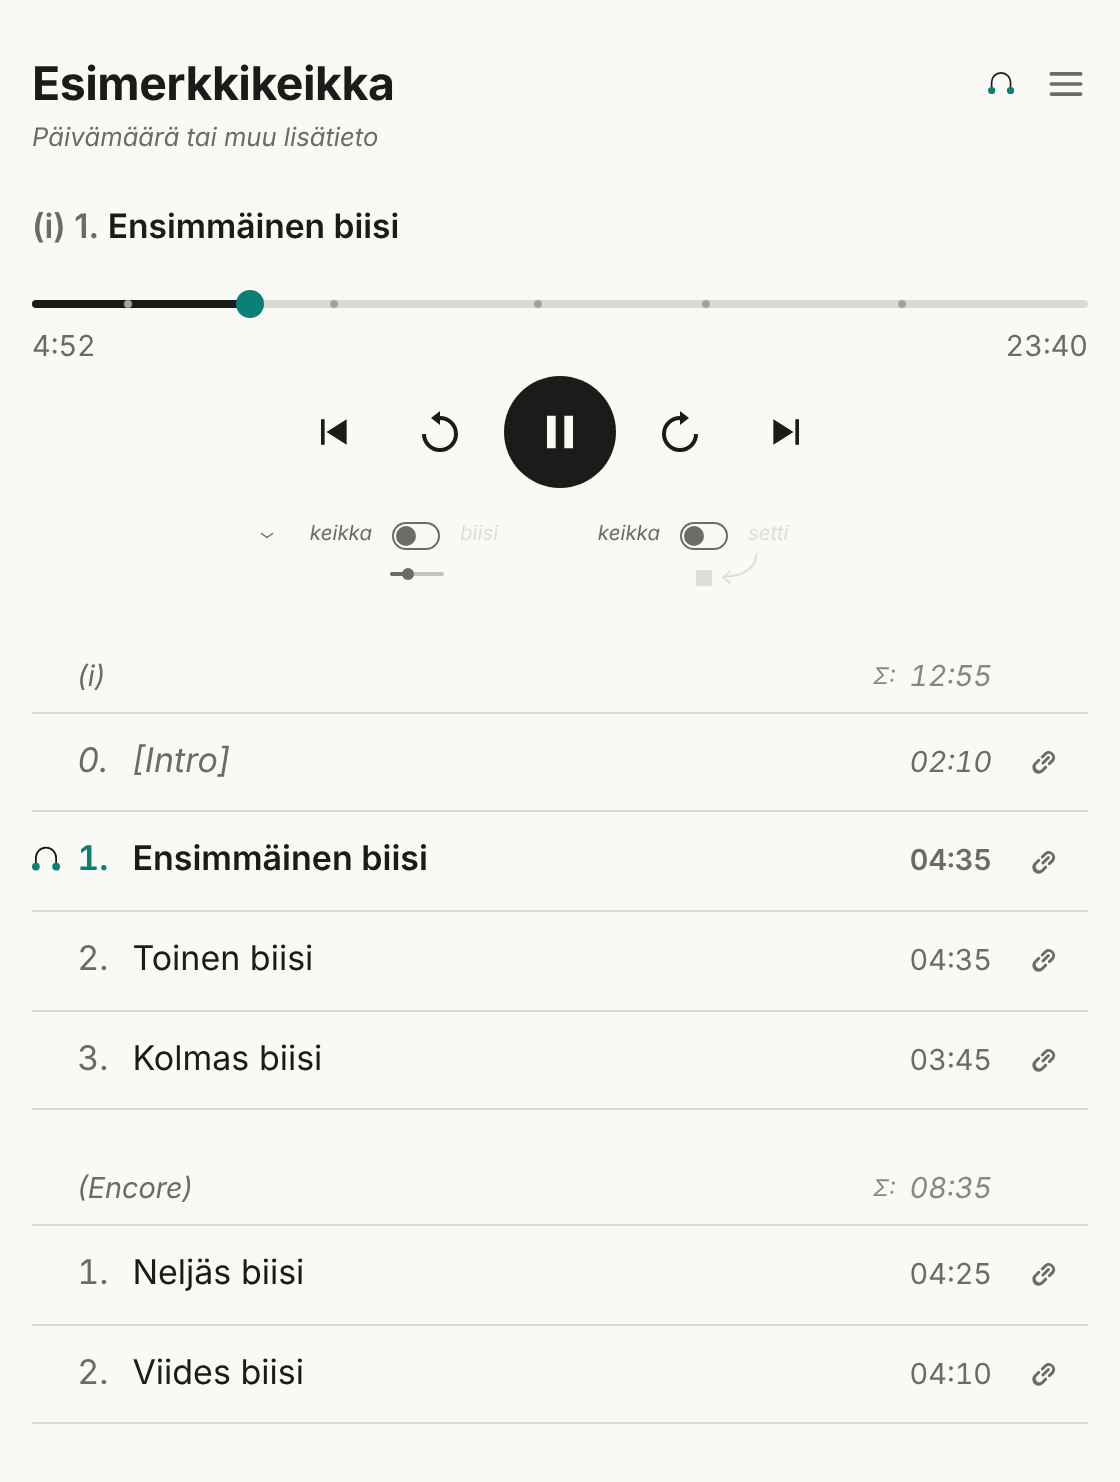
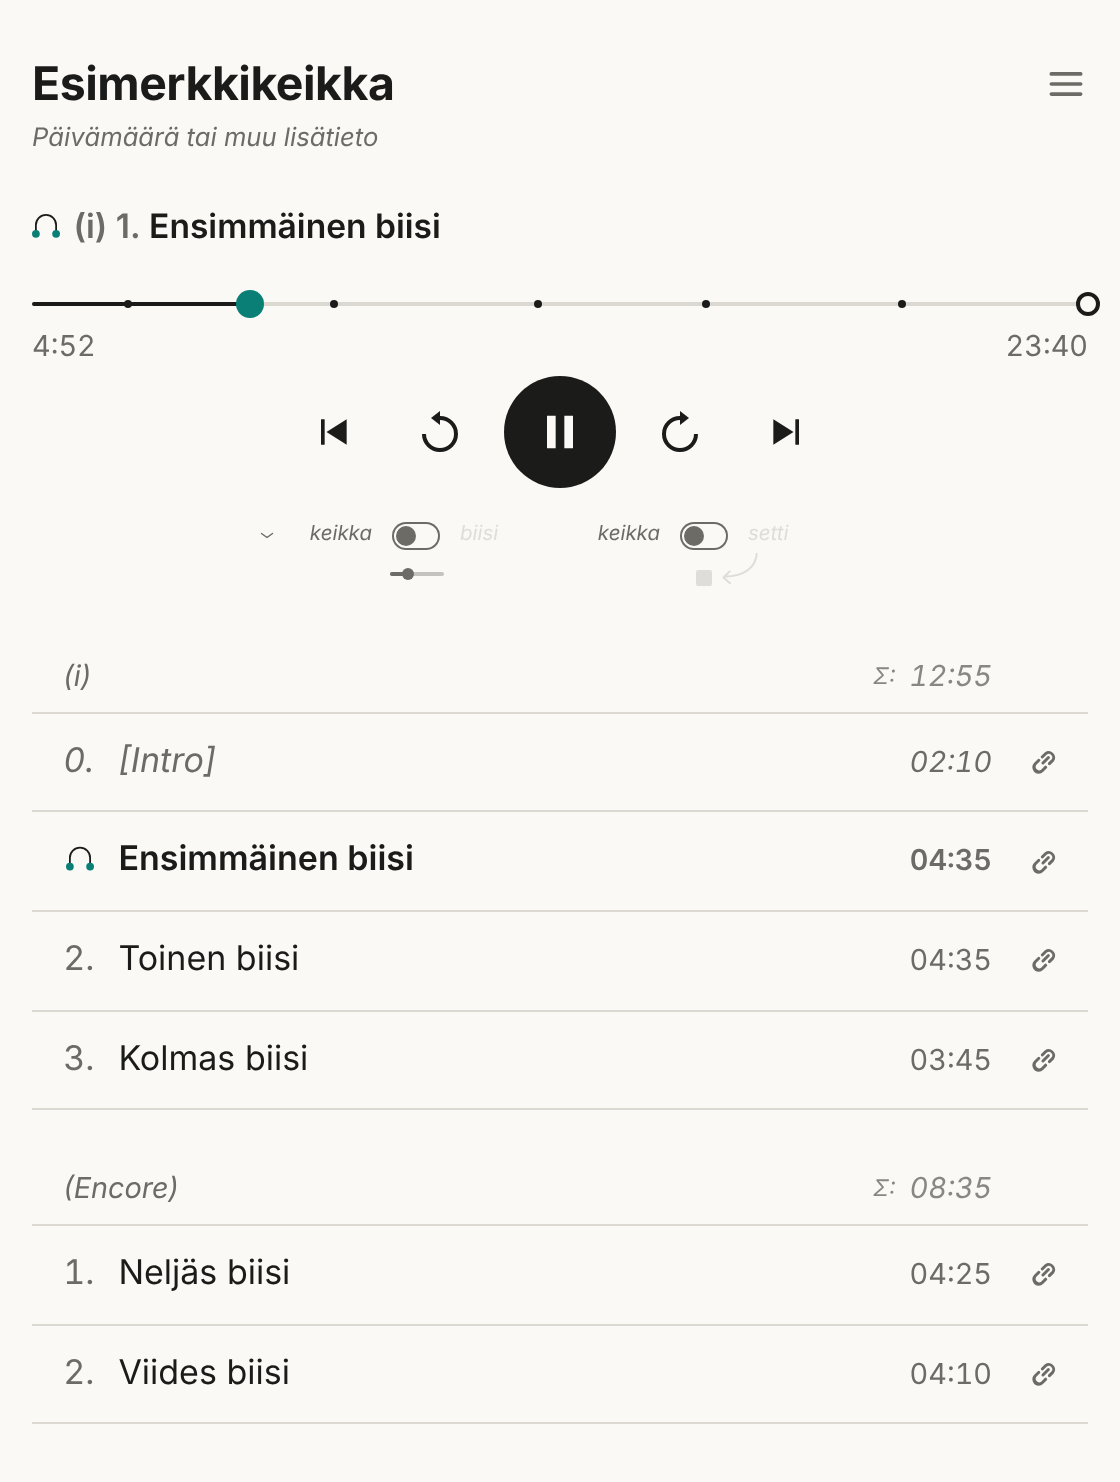
keick·walk.: ohut aikajana mustin pallein, kuulokkeet numeron paikalle ja nyt soi -riville
- Aikajana 2 px; soitettu osa tekstin värinen, kappalerajat 4 px:n tekstin värisiä
  palloja janan keskellä, lopussa rengas kuten logossa.
- Kappalelistan soivan rivin numero piilotetaan ja sen paikalle tulevat kuulokkeet;
  pystyviiva ja sen reunus poistuvat, joten numerot siirtyvät 7 px vasemmalle.
- Kuulokelogo siirtyy yläkulmasta nyt soi -rivin alkuun.
- Käyttöoppaan kuvat ja tekstit päivitetty.

Claude-Session: https://claude.ai/code/session_01X74yKiKRRQ4nGJJmDMYVXD

diff --git a/soitin/index.html b/soitin/index.html
@@ -46,7 +46,7 @@
     -webkit-tap-highlight-color: transparent;
   }
   main {
-    position: relative;   /* logo (.brand) ja yläkulman napit */
+    position: relative;   /* yläkulman napit */
     max-width: 640px;
     margin: 0 auto;
     padding: 28px 16px 48px;
@@ -58,8 +58,8 @@
     letter-spacing: -0.01em;
     margin: 0 0 22px;
     text-align: left;
-    /* Tavallinen rivitys: logon vieressä (.brand-space) liian pitkä sana siirtyy kokonaisena logon
-       alle. anywhere ja break-word katkaisisivat sen kesken (mitattu Chromiumissa). Koko leveyttä
+    /* Tavallinen rivitys: nappien vieressä (.brand-space) liian pitkä sana siirtyy kokonaisena
+       niiden alle. anywhere ja break-word katkaisisivat sen kesken (mitattu Chromiumissa). Koko leveyttä
        pidempi sana saa .pitka-luokan (fitTitle), jolloin se katkeaa kuten ennen. */
     overflow-wrap: normal;
   }
@@ -109,6 +109,9 @@
     overflow-wrap: anywhere;
   }
   .now .nr { color: var(--muted); }
+  /* Kuulokelogo nyt soi -rivin alussa (käyttäjän päätös 20.10.2026); tyynyt perusviivalla. */
+  .now .kuul-nyt { display: inline-block; width: 14px; height: 11.86px; margin-right: 0.4em; overflow: visible; fill: currentColor; }
+  .now .kuul-nyt .t { fill: var(--accent); }
   /* Ei-biisi (esim. [Intro]): myös otsikko himmeänä ja koko rivi kursiivina. */
   .now.pre { color: var(--muted); font-style: italic; }
   .seek {
@@ -120,13 +123,15 @@
     border-radius: 4px;
   }
   .seek[aria-disabled="true"] { cursor: default; }
+  /* Jana 2 px; soitettu osa tekstin värinen pisteineen, joten tumma ja vaalea eivät vaihda
+     rooleja soittokohdassa (käyttäjän päätös 20.10.2026). */
   .bar {
     position: absolute;
     left: 0; right: 0; top: 50%;
-    height: 4px;
-    margin-top: -2px;
+    height: 2px;
+    margin-top: -1px;
     background: var(--line);
-    border-radius: 2px;
+    border-radius: 1px;
     overflow: hidden;
   }
   .fill {
@@ -135,8 +140,9 @@
     width: 0;
     background: var(--fg);
   }
-  /* Biisiraja: pieni piste janalla (keick·walk.-logon aikajanan tapaan), ei katkos. Oma harmaan
-     sävy erottaa sen janasta, joten se saa olla janan paksuinen. */
+  /* Biisiraja: pieni tekstin värinen pallo janan keskellä (keick·walk.-logon aikajanan tapaan).
+     Pallon ja janan paksuuden ero on parillinen (4 − 2 px), jotta pallo ylittää janan yhtä paljon
+     ylä- ja alapuolella myös pikseleiksi pyöristettynä (mitattu). */
   .tick {
     position: absolute;
     top: 50%;
@@ -144,7 +150,7 @@
     height: 4px;
     margin: -2px 0 0 -2px;
     border-radius: 50%;
-    background: var(--dot);
+    background: var(--fg);
     pointer-events: none;
   }
   /* Kohta, jossa "Pysähdy setin lopussa" pysäyttää. */
@@ -160,7 +166,20 @@
     background: var(--accent);   /* kuten keick·walk.-logon janan nuppi */
     pointer-events: none;
   }
-  .seek[aria-disabled="true"] .knob { display: none; }
+  /* Janan loppu: tekstin värinen rengas kuten logossa. */
+  .loppu {
+    position: absolute;
+    top: 50%;
+    left: 100%;
+    width: 12px;
+    height: 12px;
+    margin: -6px 0 0 -6px;
+    border: 2px solid var(--fg);
+    border-radius: 50%;
+    background: var(--bg);
+    pointer-events: none;
+  }
+  .seek[aria-disabled="true"] .knob, .seek[aria-disabled="true"] .loppu { display: none; }
   /* Aika janan alla: vasemmalla kohta, oikealla janan pituus. Jana on 44 px
      korkea ja viiva sen keskellä, joten rivi nostetaan lähemmäs viivaa. */
   .times {
@@ -383,9 +402,8 @@
     display: flex;
     align-items: baseline;
     gap: 12px;
-    padding: 12px 4px 12px 8px;
+    padding: 12px 4px;
     text-align: left;
-    border-left: 3px solid transparent;
   }
   .track .n {
     flex: 0 0 auto;
@@ -404,13 +422,13 @@
     font-size: 0.9rem;
   }
   li[aria-current="true"] .track { font-weight: 600; }
-  /* Soivan kappaleen merkki: logon kuulokkeet entisen turkoosin pystyviivan paikalla rivin
-     vasemmassa reunassa (käyttäjän päätös 20.10.2026). Laatikko on ensimmäisen rivin korkuinen
-     (1.45em = rivikorkeus), joten kuvake keskittyy numeroon; 1 px ylemmäs optisesti. */
+  /* Soivan kappaleen numeron paikalla ovat logon kuulokkeet (käyttäjän päätös 20.10.2026), oikeaan
+     reunaan tasattuina kuten numerot (left: markCurrent). Laatikko on ensimmäisen rivin korkuinen
+     (1.45em = rivikorkeus), joten kuvake keskittyy riville; 1 px ylemmäs optisesti. */
   .track { position: relative; }
-  .kuul { position: absolute; left: -3px; top: 12px; width: 14px; height: 1.45em; margin-top: -1px; fill: currentColor; }
+  li[aria-current="true"] .track .n { visibility: hidden; }
+  .kuul { position: absolute; top: 12px; width: 14px; height: 1.45em; margin-top: -1px; fill: currentColor; }
   .kuul .t { fill: var(--accent); }
-  li[aria-current="true"] .track .n { color: var(--accent); }
   /* Ei-biisi (x-rivi): "0. [Intro] 0:00", numerona 0, x tai -, koko rivi
      himmeä ja kursiivi, eikä lihavoidu soidessaankaan. Koot ja asettelu
      kuten muilla riveillä. */
@@ -426,7 +444,7 @@
     display: flex;
     align-items: baseline;
     gap: 12px;
-    padding: 30px 48px 6px 11px;
+    padding: 30px 48px 6px 4px;
     color: var(--muted);
     font-size: 0.9rem;
     font-style: italic;
@@ -462,19 +480,12 @@
   .loading { color: var(--muted); margin: 0; }
 
   /* Omat keikkani verkossa (sovelluksessa napit tuo silta.js). */
-  /* keick·walk.-logo pienenä ☰-napin vasemmalla puolella (verkossa ☰ yksin, sovelluksessa
-     silta.js:n kolmen napin rivin vasemmassa päässä). Otsikolle varataan tilaa vain ensimmäisellä
-     rivillä kelluvalla .brand-space-laatikolla, joten pitkä nimi jatkuu logon alla täysleveänä;
-     tämä korvaa otsikon oikean reunuksen (myös silta.js:n main>h1 136px). */
-  .logo { fill: currentColor; }
-  .logo .t { fill: var(--accent); }
-  /* Soitinsivulla logosta vain kuulokkeet (käyttäjän päätös 20.10.2026), 20/28,82 px yksikköä
-     kohden kuten koko logo aiemmin: tyynyjen alareuna WALKin entisellä perusviivalla, oikea reuna
-     4,22 px ☰-napista. .brand-space = leveys + 45 px (sovelluksessa + 141 px). */
-  .brand { position: absolute; top: 36.16px; right: 53.22px; width: 13.1px; height: 11.1px; }
-  .brand-space { float: right; width: 58.1px; height: 29px; }
-  main.app .brand { right: 149.22px; }
-  main.app .brand-space { width: 154.1px; }
+  /* Otsikolle varataan yläkulman nappien tila (verkossa ☰, sovelluksessa silta.js:n kolme nappia)
+     vain ensimmäisellä rivillä kelluvalla .brand-space-laatikolla, joten pitkä nimi jatkuu nappien
+     alla täysleveänä; tämä korvaa otsikon oikean reunuksen (myös silta.js:n main>h1 136px).
+     Kuulokelogo oli tässä 20.10.2026 asti; nyt se on nyt soi -rivin alussa (.kuul-nyt). */
+  .brand-space { float: right; width: 45px; height: 29px; }
+  main.app .brand-space { width: 141px; }
   main.omat > h1, main.app > h1 { padding-right: 0; }
   #omat {
     position: absolute;
@@ -509,7 +520,6 @@
 </head>
 <body>
 <main>
-  <svg class="logo brand" viewBox="0 4 18.88 16" role="img" aria-label="keick·walk."><path d="M2.62 17.38V11.42A6.82 6.82 0 0 1 16.26 11.42V17.38" fill="none" stroke="currentColor" stroke-width="1.2"/><circle class="t" cx="2.62" cy="17.38" r="2.62"/><circle class="t" cx="16.26" cy="17.38" r="2.62"/></svg>
   <div class="brand-space" aria-hidden="true"></div>
   <h1 id="title">keick·walk.</h1>
   <p class="sub" id="sub" hidden></p>
@@ -525,6 +535,7 @@
          aria-valuenow="0" aria-valuetext="0:00" aria-disabled="true">
       <div class="bar"><div class="fill" id="fill"></div></div>
       <div id="ticks"></div>
+      <div class="loppu"></div>
       <div class="knob" id="knob"></div>
     </div>
       <div class="times num"><span id="cur">0:00</span><span id="dur">–:––</span></div>
@@ -678,6 +689,7 @@
     var n = document.createTextNode(num(i) + ".");
     els.now.textContent = "";
     els.now.classList.toggle("pre", isExtra(i));
+    els.now.appendChild(kuulNyt);
     els.now.appendChild(nr);
     if (tr.untitled) {
       els.now.appendChild(n);
@@ -858,22 +870,20 @@
   // ---- Tila -------------------------------------------------------------
 
   var current = -1;        // korostettu kappale
-  // Soivan kappaleen kuulokkeet; siirretään soivan rivin alkuun.
-  var kuul = (function () {
+  // keick·walk.-logon kuulokkeet: soivan kappaleen merkki listassa ja nyt soi -rivillä.
+  function kuulokkeet(cls) {
     var w = document.createElement("span");
-    w.innerHTML = '<svg class="kuul" viewBox="0 4 18.88 16" aria-hidden="true">'
+    w.innerHTML = '<svg class="' + cls + '" viewBox="0 4 18.88 16" aria-hidden="true">'
       + '<path d="M2.62 17.38V11.42A6.82 6.82 0 0 1 16.26 11.42V17.38" fill="none" stroke="currentColor" stroke-width="1.2"/>'
       + '<circle class="t" cx="2.62" cy="17.38" r="2.62"/><circle class="t" cx="16.26" cy="17.38" r="2.62"/></svg>';
     return w.firstChild;
-  })();
-  // Kaksinumeroinen numero alkaa niin vasemmalta, että se osuisi kuulokkeisiin; silloin soivan
-  // rivin tekstiä siirretään sen verran, että numeron ja kuulokkeiden väliin jää 6 px.
+  }
+  var kuul = kuulokkeet("kuul"), kuulNyt = kuulokkeet("kuul-nyt");
+  // Kuulokkeet soivan rivin piilotetun numeron paikalle, oikeaan reunaan kuten numerot.
   function markCurrent(tr) {
+    var n = tr.querySelector(".n");
     tr.insertBefore(kuul, tr.firstChild);
-    var r = document.createRange();
-    r.selectNodeContents(tr.querySelector(".n"));
-    var need = kuul.getBoundingClientRect().right + 6 - r.getBoundingClientRect().left;
-    if (need > 0) tr.style.paddingLeft = 8 + need + "px";   // 8 px = .trackin vasen reunus
+    kuul.style.left = n.offsetLeft + n.offsetWidth - 14 + "px";
   }
   var pendingSeek = null;  // hyppy ennen kuin metadata on ladattu
   var dragging = false;
@@ -1049,10 +1059,7 @@
     els.seek.setAttribute("aria-valuetext", cur + " / " + (known ? fmt(len, lt) : "tuntematon"));
 
     if (i !== current) {
-      if (current >= 0 && rows[current]) {
-        rows[current].removeAttribute("aria-current");
-        rows[current].firstChild.style.paddingLeft = "";
-      }
+      if (current >= 0 && rows[current]) rows[current].removeAttribute("aria-current");
       current = i;
       if (i >= 0) {
         rows[i].setAttribute("aria-current", "true");
@@ -1499,7 +1506,7 @@
   // soittimen päällä, joten sen avaaminen ei katkaise soittoa.
 
   var web = !window.SoitinApp;
-  // Sovelluksessa logo siirtyy silta.js:n nappirivin vasemmalle puolelle.
+  // Sovelluksessa otsikon ensimmäiseltä riviltä varataan tila silta.js:n kolmelle napille.
   if (!web) document.querySelector("main").classList.add("app");
   var LIST_KEY = "soitin-keikat";
   var listFrame = null;

diff --git a/soitin/ohje.html b/soitin/ohje.html
@@ -470,7 +470,7 @@
   <picture>
     <source srcset="ohje-soitin-tumma.png" media="(prefers-color-scheme: dark)">
     <img src="ohje-soitin.png" width="1120" height="1482"
-      alt="keick·walk.: otsikko ja lisätieto, oikeassa yläkulmassa logo ja Omat keikkani -nappi, nyt soi -rivi, aikajana, viisi nappia, kaksi kytkintä ja kappalelista seteittäin.">
+      alt="keick·walk.: otsikko ja lisätieto, oikeassa yläkulmassa Omat keikkani -nappi, nyt soi -rivi, aikajana, viisi nappia, kaksi kytkintä ja kappalelista seteittäin.">
   </picture>
   <figcaption><a href="#merkinnat">Kahden setin esimerkki</a> keick·walk.-sivulla. Ensimmäinen biisi soi.</figcaption>
 </figure>
@@ -483,7 +483,7 @@
     <td>Lista keikoista, jotka on avattu tässä selaimessa; avattu keikka tulee listaan itsestään.
       Napauta keikkaa tai kirjoita tunnus. Soitto jatkuu, kun lista on auki. Lista on vain tämän
       selaimen muistissa, eikä sitä lähetetä minnekään.</td></tr>
-  <tr><td>Nyt soi -rivi</td><td>Soivan kappaleen numero ja nimi. Useamman setin keikassa edessä on
+  <tr><td>Nyt soi -rivi</td><td>Kuulokkeiden perässä soivan kappaleen numero ja nimi. Useamman setin keikassa edessä on
     setti, esim. <i>(ii) 3.</i></td></tr>
   <tr><td>Aikajana</td><td>Napauta tai vedä kohtaan. Pienet pisteet ovat kappaleiden rajoja (keikka-janalla).
     Alla vasemmalla soittokohta, oikealla janan pituus.</td></tr>
@@ -509,7 +509,7 @@
     <td>Piilottaa kytkimet. Kääntynyt natsa tuo ne takaisin. Valinta muistetaan laitteella; piilotetut
       kytkimet pysyvät siinä asennossa, johon ne jäivät.</td></tr>
   <tr><td>Kappalelista</td>
-    <td>Soivan kappaleen vasemmalla puolella ovat kuulokkeet. Napauta kappaletta, niin soitto alkaa siitä. Oikealla kappaleen kesto, setin otsikkorivillä
+    <td>Soivan kappaleen numeron paikalla ovat kuulokkeet. Napauta kappaletta, niin soitto alkaa siitä. Oikealla kappaleen kesto, setin otsikkorivillä
       setin biisien yhteiskesto (Σ, ilman hakasulkeissa olevia ei-biisejä). Linkki-ikoni kopioi <a href="#linkit">kappaleen linkin</a>.</td></tr>
 </table>
 <p><b>Näppäimistöllä</b> (Mac): <kbd>välilyönti</kbd> toistaa ja tauottaa. Kun aikajana on valittuna

diff --git a/CLAUDE.md b/CLAUDE.md
@@ -324,18 +324,20 @@ tunnuskentän yläpuolella on vakiofonttinen kursiivi *Valkkaa keikka!*; alalaid
 (`index.html`); käyttäjän päätös 19.10.2026. Korostusväri on kaikilla soittimen sivuilla Okinawa-turkoosi `#0a7f76` / tummassa
 `#1fb5a8` (Sports Walkmanin runko). Napin, iframen ja listan `<title>`-elementin nimi on edelleen
 *Omat keikkani*.
-Soitinsivulla logosta on vain kuulokkeet (käyttäjän päätös 20.10.2026; samassa mittakaavassa 20/28,82 px
-yksikköä kohden, 13,1 × 11,1 px) ☰-napin vasemmalla puolella; sovelluksessa
-(`main.app`) silta.js:n kolmen napin rivin vasemmalla puolella. Otsikon tila varataan kelluvalla
-`.brand-space`-laatikolla vain ensimmäiseltä riviltä, ja se korvaa otsikon oikean reunuksen (myös
-silta.js:n `main>h1{padding-right:136px}`). Otsikon rivitys on tavallinen, koska `anywhere` ja
+Soitinsivulla logosta on vain kuulokkeet (14 px, `.kuul-nyt`) nyt soi -rivin alussa (käyttäjän päätös
+20.10.2026; ennen ☰-napin vieressä). Otsikolta varataan yläkulman nappien tila (45 px, sovelluksessa
+141 px) kelluvalla `.brand-space`-laatikolla vain ensimmäiseltä riviltä, ja se korvaa otsikon oikean
+reunuksen (myös silta.js:n `main>h1{padding-right:136px}`). Otsikon rivitys on tavallinen, koska `anywhere` ja
 `break-word` katkaisevat sanan kesken kelluvan laatikon vieressä (mitattu Chromiumissa); koko
 leveyttä pidempi sana saa `fitTitle()`:ssä luokan `.pitka` (katkeaa mistä tahansa, alkaa logon alta).
-Soittimen aikajanalla biisirajat ovat 4 px:n pisteitä sävyllä `--dot` eivätkä katkoksia;
-*Pysähdy setin lopussa* -kohta on yhä turkoosi pystyviiva.
-Kappalelistassa soivan kappaleen merkki on logon kuulokkeet (14 px leveät, `.kuul`) entisen turkoosin
-pystyviivan paikalla rivin vasemmassa reunassa (käyttäjän päätös 20.10.2026). Kaksinumeroinen numero
-osuisi kuulokkeisiin, joten `markCurrent()` siirtää silloin vain soivan rivin tekstiä niin, että väliin
-jää 6 px; setin ensimmäinen numero on aina yksinumeroinen, joten `alignSetNames()` ei kärsi siirrosta.
+Soittimen aikajana (käyttäjän päätös 20.10.2026): jana 2 px, soitettu osa tekstin värinen, loppu
+`--line`; biisirajat ovat 4 px:n tekstin värisiä palloja janan keskellä (ero janaan parillinen, jotta
+pallo ylittää janan yhtä paljon ylä- ja alapuolella pikseleiksi pyöristettynä); janan lopussa tekstin
+värinen 12 px:n rengas (kehä 2 px, `.loppu`) kuten logossa. *Pysähdy setin lopussa* -kohta on yhä
+turkoosi pystyviiva.
+Kappalelistassa ei ole pystyviivaa eikä sen vaatimaa vasenta reunusta (`.track` padding 4 px). Soivan
+kappaleen numero on piilotettu, ja sen paikalla ovat logon kuulokkeet (14 px, `.kuul`) numeroiden
+tapaan oikeaan reunaan tasattuina (`markCurrent()`); numerolaatikko (min. 1.6em) on kuulokkeita
+leveämpi, joten otsikko ei siirry (käyttäjän päätös 20.10.2026).
 Soittimen osoitinpallo (`.knob`) on turkoosi (`--accent`) kuten logon janan nuppi (käyttäjän
 vaatimus: soitin harmoniassa logon kanssa).
